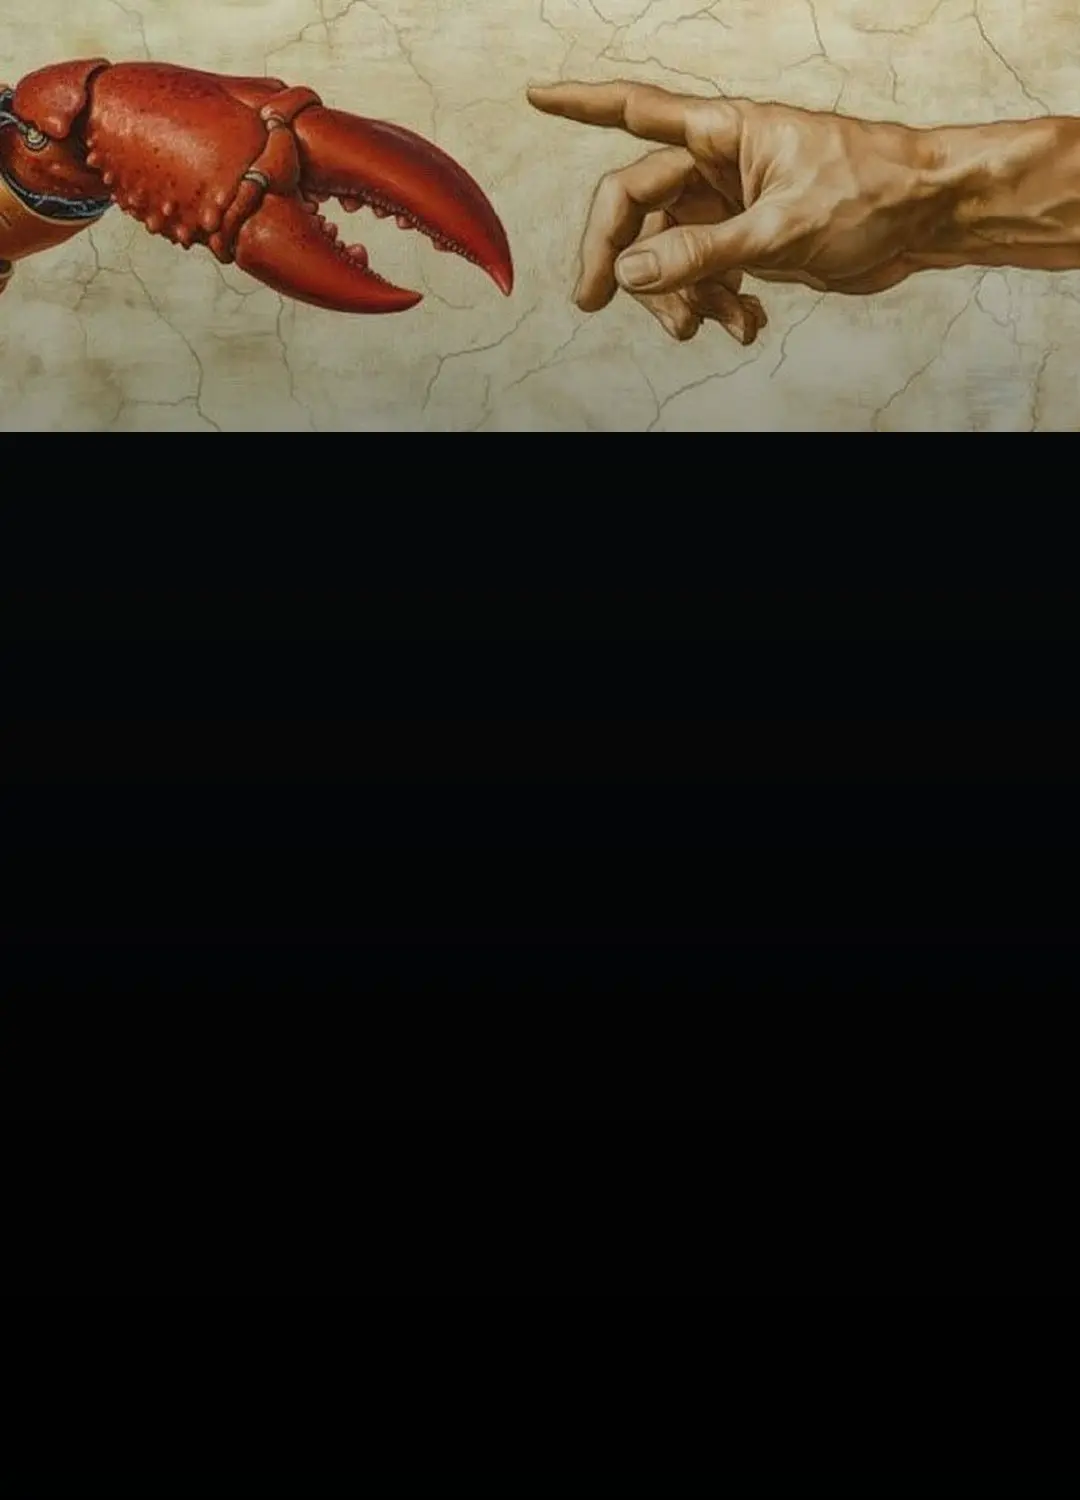
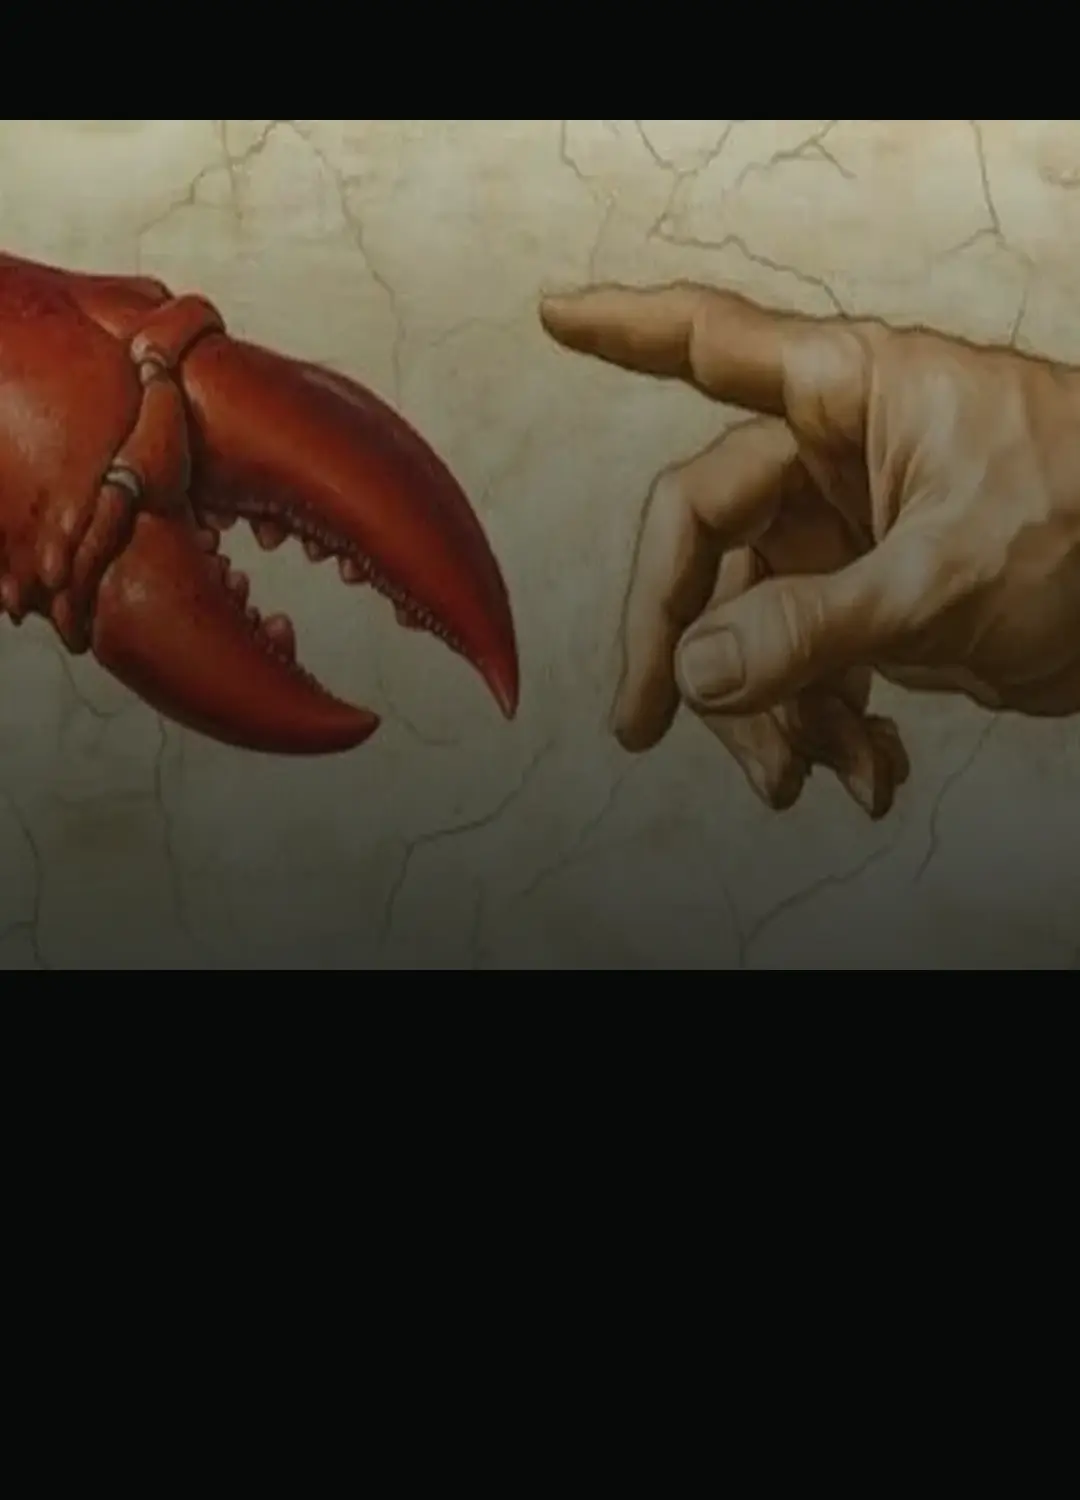
Improve Sean Adam hero framing

diff --git a/styles.css b/styles.css
@@ -148,7 +148,7 @@ a {
   width: 100%;
   height: 100%;
   object-fit: cover;
-  object-position: center top;
+  object-position: center 58%;
   filter: saturate(1.08) contrast(1.06);
 }
 
@@ -158,8 +158,8 @@ a {
   inset: 0;
   z-index: -2;
   background-image:
-    linear-gradient(90deg, rgba(9, 11, 12, 0.8), rgba(9, 11, 12, 0.56) 36%, rgba(9, 11, 12, 0.24) 68%, rgba(9, 11, 12, 0.5)),
-    linear-gradient(180deg, rgba(9, 11, 12, 0.05), rgba(9, 11, 12, 0.34) 45%, var(--bg) 96%);
+    linear-gradient(90deg, rgba(9, 11, 12, 0.82), rgba(9, 11, 12, 0.48) 38%, rgba(9, 11, 12, 0.18) 68%, rgba(9, 11, 12, 0.46)),
+    linear-gradient(180deg, rgba(9, 11, 12, 0.03), rgba(9, 11, 12, 0.16) 52%, var(--bg) 100%);
   background-size: cover;
   background-position: center;
   background-repeat: no-repeat;
@@ -183,7 +183,7 @@ a {
 }
 
 .hero-inner {
-  padding: 35svh 0 70px;
+  padding: 39svh 0 70px;
 }
 
 .eyebrow {
@@ -666,18 +666,18 @@ main {
 
   .hero::before {
     background-image:
-      linear-gradient(180deg, rgba(9, 11, 12, 0.02) 0%, rgba(9, 11, 12, 0.14) 23%, rgba(9, 11, 12, 0.86) 42%, var(--bg) 92%),
+      linear-gradient(180deg, rgba(9, 11, 12, 0.01) 0%, rgba(9, 11, 12, 0.08) 34%, rgba(9, 11, 12, 0.66) 60%, var(--bg) 96%),
       linear-gradient(90deg, rgba(9, 11, 12, 0.24), rgba(9, 11, 12, 0.1) 48%, rgba(9, 11, 12, 0.34));
     background-size: cover;
     background-position: center;
   }
 
   .hero-bg img {
-    object-position: center top;
+    object-position: center 50%;
   }
 
   .hero-inner {
-    padding-top: 48svh;
+    padding-top: 54svh;
   }
 
   h1 {

diff --git a/index.html b/index.html
@@ -13,7 +13,7 @@
   <link rel="preconnect" href="https://fonts.googleapis.com">
   <link rel="preconnect" href="https://fonts.gstatic.com" crossorigin>
   <link href="https://fonts.googleapis.com/css2?family=Inter:wght@400;500;650;800&family=JetBrains+Mono:wght@500;700;800&display=swap" rel="stylesheet">
-  <link rel="stylesheet" href="styles.css?v=20260614a">
+  <link rel="stylesheet" href="styles.css?v=20260614b">
 </head>
 <body>
   <header class="site-header">
